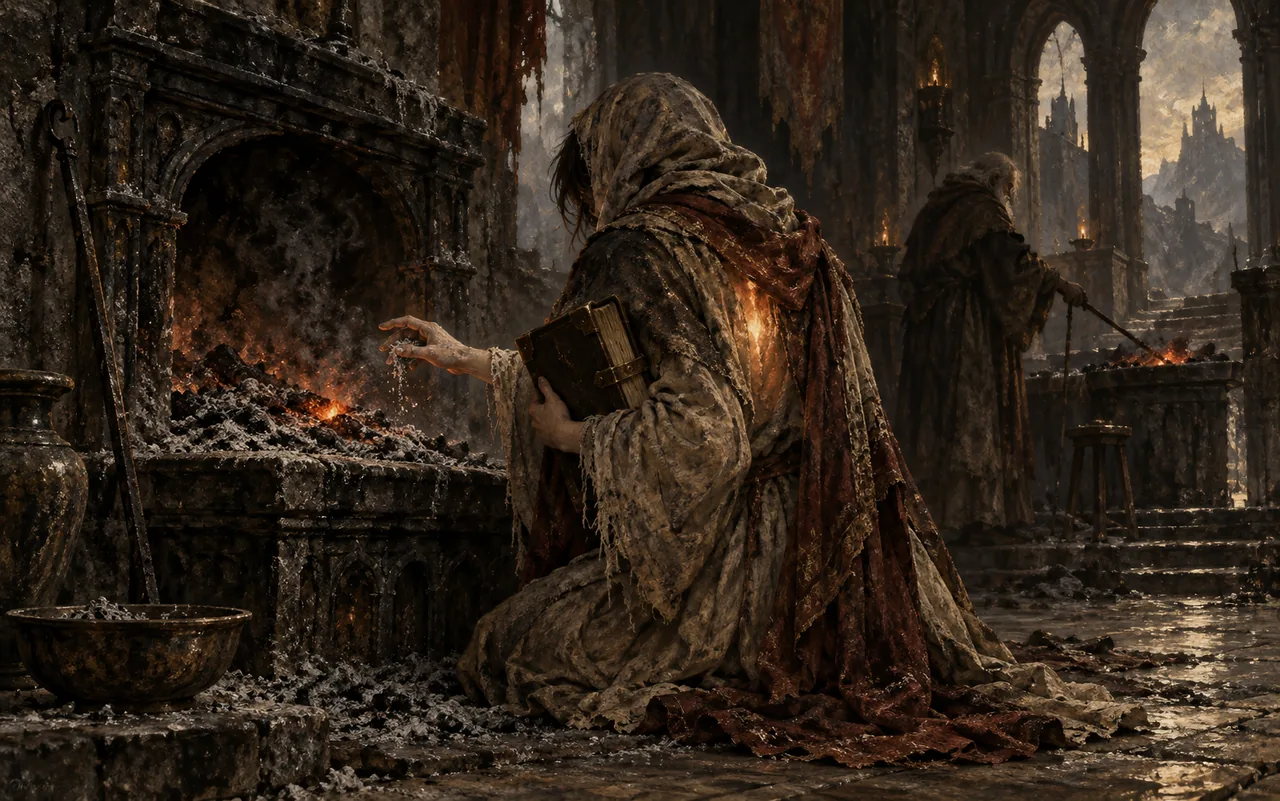
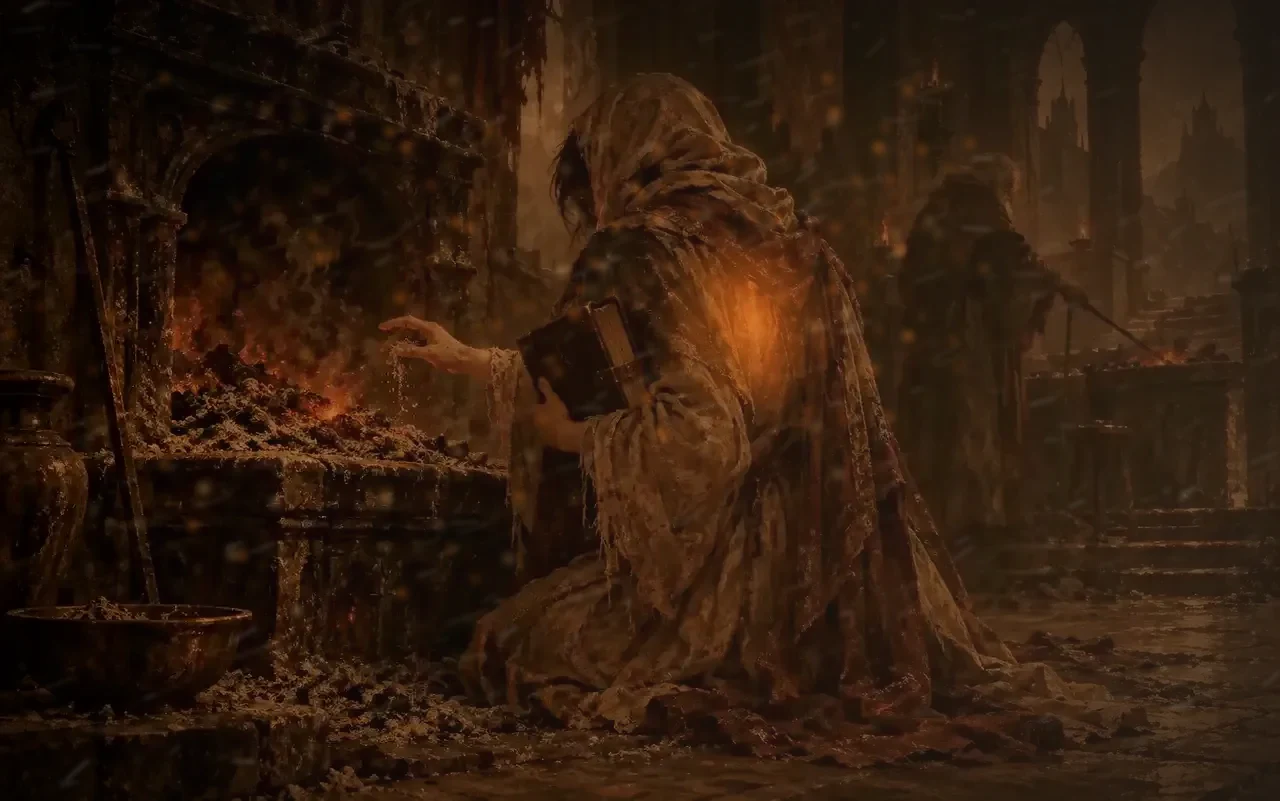
Darken the Herald prologue memory with ash and ember effects
The owner asked for the Herald scene to read darker and more intense,
with burning and ash effects like the Burning plate. Image generation
was unavailable, so this is a deterministic Sharp grade over the #1216
plates: lower exposure, umber grade, vignette, protected embers, a chest
glow, drifting ash streaks and sparks. Masters, manifest and the
reproducible script live in art/prologue-herald-burning-refinement/;
the shocked-onlookers repaint is recorded there as still pending.

Claude-Session: https://claude.ai/code/session_01XnahvZWN7mHmwxbyuiaaz1

diff --git a/AshenSpire.html b/AshenSpire.html
@@ -1,3 +1,3 @@
 version https://git-lfs.github.com/spec/v1
-oid sha256:8f17058253b11bd92c744ed41665aa50148e5302d0726d81a8eabd801940e38d
-size 190425895
+oid sha256:e7c502d3e0ee9bc1ba2927eb45e712fe932d80f2df5b1dbc272b376c7be47937
+size 190162939

diff --git a/build/AshenSpire.html b/build/AshenSpire.html
@@ -1,3 +1,3 @@
 version https://git-lfs.github.com/spec/v1
-oid sha256:8f17058253b11bd92c744ed41665aa50148e5302d0726d81a8eabd801940e38d
-size 190425895
+oid sha256:e7c502d3e0ee9bc1ba2927eb45e712fe932d80f2df5b1dbc272b376c7be47937
+size 190162939

diff --git a/dist/AshenSpire.html b/dist/AshenSpire.html
@@ -1,3 +1,3 @@
 version https://git-lfs.github.com/spec/v1
-oid sha256:8f17058253b11bd92c744ed41665aa50148e5302d0726d81a8eabd801940e38d
-size 190425895
+oid sha256:e7c502d3e0ee9bc1ba2927eb45e712fe932d80f2df5b1dbc272b376c7be47937
+size 190162939

diff --git a/art/prologue-herald-burning-refinement/README.md b/art/prologue-herald-burning-refinement/README.md
@@ -1,0 +1,42 @@
+# Herald memory: the unfinished Burning, dark grade
+
+Art-only refinement for prologue scene 4, Herald class memory. The owner asked for the
+Herald scene to "look more intense, darker with more burning and ash effects similar to the
+Burning", and then to "merge what's there for now".
+
+## What changed
+
+`assets/prologue/carry-herald-desktop.webp` and `assets/prologue/carry-herald-mobile.webp`
+were regraded from the plates shipped in #1216:
+
+- exposure lowered about two thirds of a stop with a muted umber colour grade and a dark
+  edge vignette, shadow detail lifted slightly so it is not crushed;
+- the hearth embers and the glow beneath the novice's robe are protected and a soft
+  furnace-orange glow is added at the chest;
+- drifting grey ash streaks, pulled toward the upper right like the Burning plate, and
+  ember sparks around the hearth and the novice.
+
+Composition, characters, the holy book, the elderly Furnace Saint and the chapel are
+unchanged. Dimensions are unchanged (desktop 1280 x 801, mobile 768 x 1365).
+
+## Method and provenance
+
+No image generation was available in this session, so the pass is a deterministic
+programmatic grade: `grade.cjs` (Sharp, seeded pseudo-random overlay). Running it again
+from the "before" masters reproduces the deliverables byte for byte apart from encoder
+version differences.
+
+- `masters/carry-herald-*-before.png`: the #1216 plates decoded losslessly.
+- `masters/carry-herald-*.png`: graded PNG masters.
+- `asset-manifest.json`: dimensions, byte sizes, WebP settings (quality 88, effort 6,
+  smart subsampling, no resize) and SHA-256 checksums.
+- `inspection/`: previews decoded from the compressed WebPs.
+- `generation-prompt.json`: the ready prompt for the still-pending painted revision.
+
+## Still pending: onlookers in shock
+
+The owner also asked that "others should be in shock as the burning is happening". That
+needs a repaint, not a grade. The prompt is saved in `generation-prompt.json`; the
+recommended next pass is a reference-driven edit of `masters/carry-herald-desktop.png`
+with the built-in image tool, then a portrait recomposition for mobile, using the same
+export settings as above.
